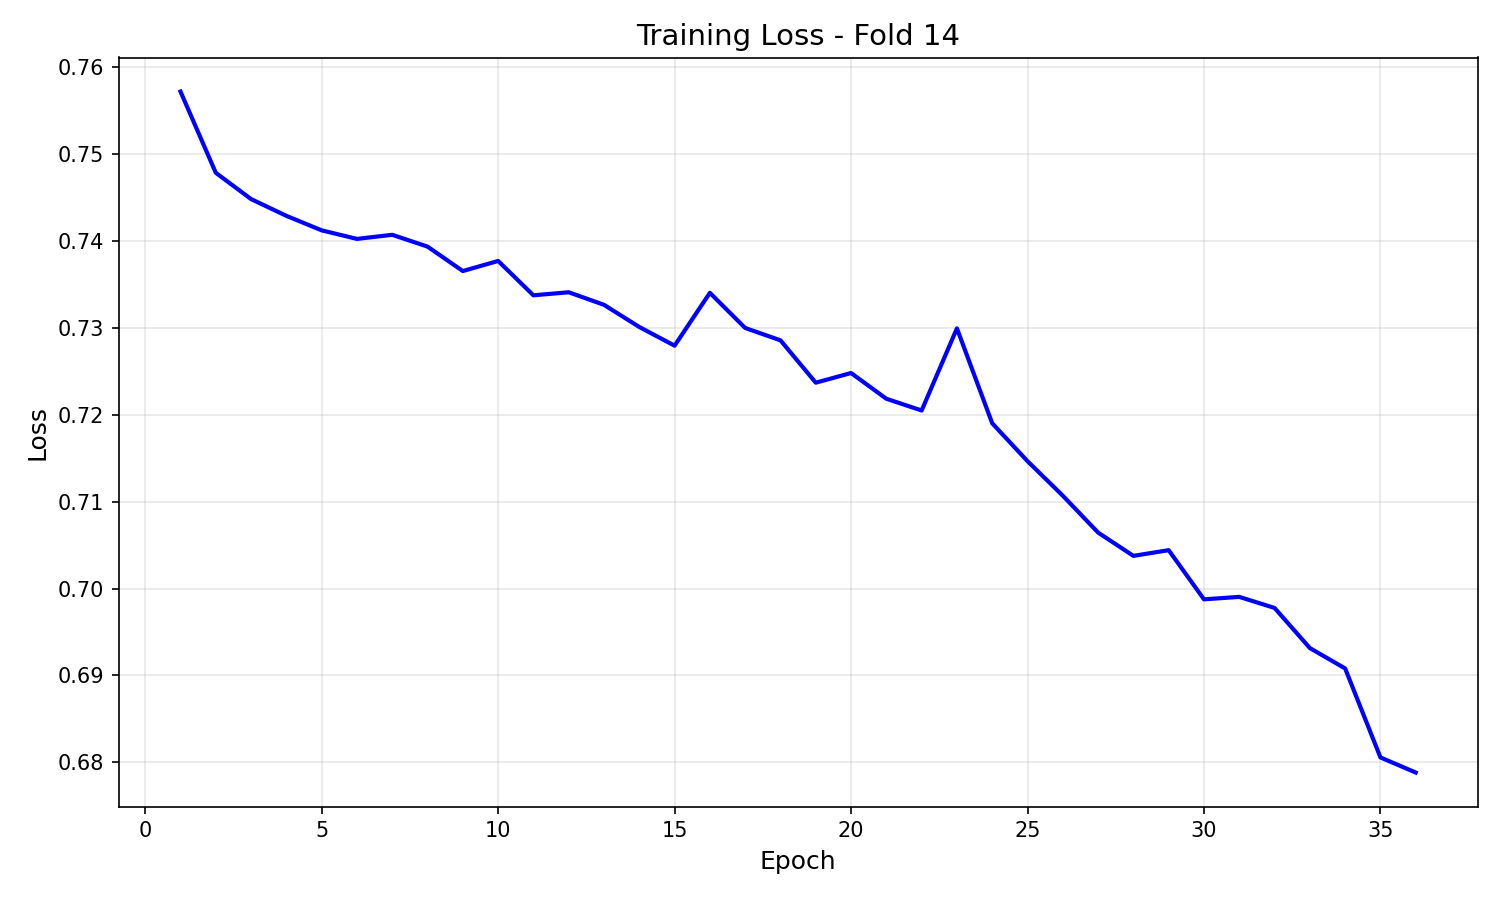
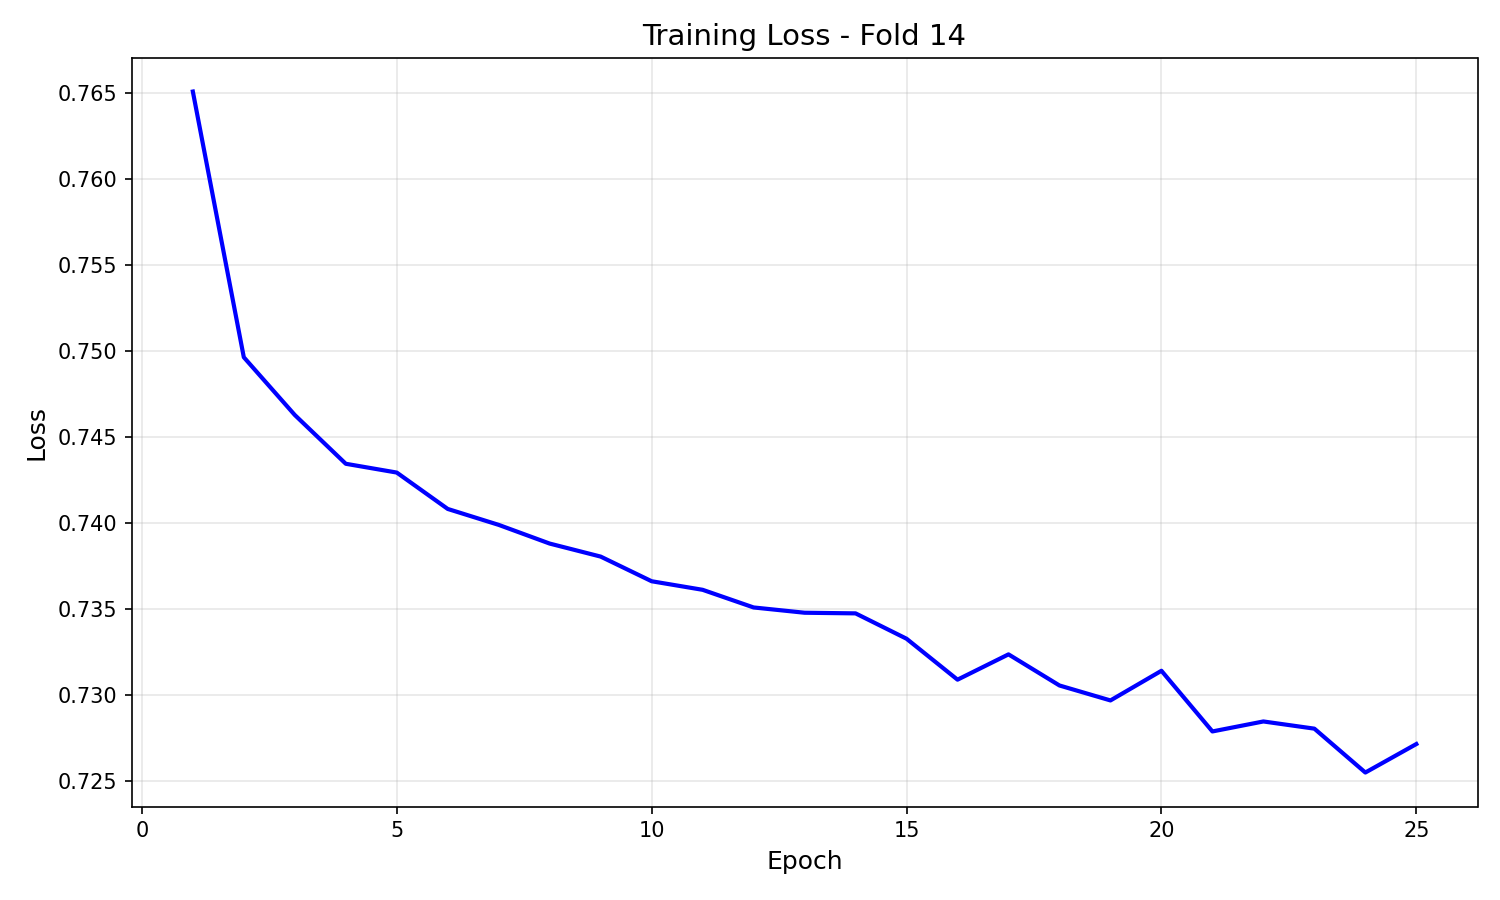
changed LR and top_k to test

diff --git a/train.py b/train.py
@@ -647,7 +647,7 @@ def main(
     HIDDEN_DIM = 64
     WINDOW_SIZE = 60
     NUM_EPOCHS = 100
-    LR = 1e-3
+    LR = 1e-4
     WEIGHT_DECAY = 1e-1
     PATIENCE = 15  # Early stopping patience
     MAX_STOCKS = 150  # Stock universe size
@@ -760,7 +760,7 @@ def main(
             temporal_layers=2,
             mp_layers=2,
             heads=4,
-            top_k=min(10, NUM_STOCKS - 1),
+            top_k=min(5, NUM_STOCKS - 1),
             dropout=0.5,
             head_dropout=0.5
         ).to(device)
